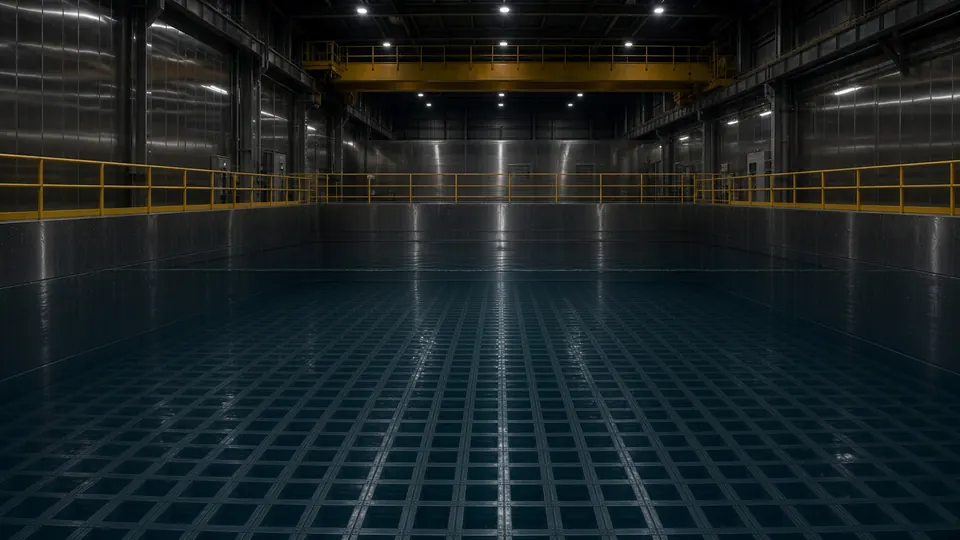
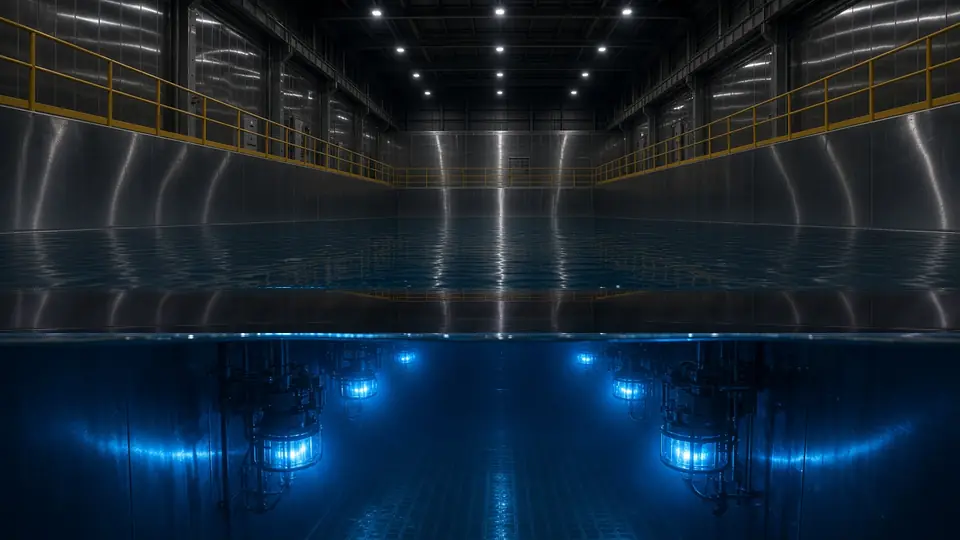
Step 12g: the pool, the arc, the puddle, and the drips
Grok <noreply@x.ai>

diff --git a/src/game/nightwatch/cameras.ts b/src/game/nightwatch/cameras.ts
@@ -334,6 +334,31 @@ function puddle(g: G, cx: number, cy: number, rFull: number, t: number, grow = 1
   g.fillRect(cx + r * 0.08, cy - 70 + ph * 70, 1, 2);
 }
 
+/** Wet grating: a flat sheen on the floor, darker in the middle, with the ceiling light in it. */
+function grateSheen(g: G, cx: number, cy: number, rFull: number, t: number, grow = 1) {
+  const r = Math.max(26, rFull * (0.45 + 0.55 * grow));
+  g.save();
+  g.translate(cx, cy);
+  g.scale(1, 0.32);
+  g.globalCompositeOperation = "multiply";
+  const dark = Math.round(148 - grow * 18);
+  g.fillStyle = rad(g, 0, 0, r, [[0, `rgb(${dark},${dark + 2},${dark + 8})`], [0.55, "rgb(206,208,210)"], [1, "rgb(255,255,255)"]]);
+  g.beginPath();
+  g.arc(0, 0, r, 0, Math.PI * 2);
+  g.fill();
+  g.restore();
+  g.save();
+  g.globalCompositeOperation = "lighter";
+  g.translate(cx - r * 0.08, cy - 1);
+  g.scale(1, 0.3);
+  const flick = 0.28 + 0.06 * Math.sin(t * 1.7) + grow * 0.22;
+  g.fillStyle = rad(g, 0, 0, r * 0.55, [[0, `rgba(255,248,224,${flick})`], [0.45, `rgba(255,244,210,${flick * 0.35})`], [1, "rgba(255,248,224,0)"]]);
+  g.beginPath();
+  g.arc(0, 0, r * 0.46, 0, Math.PI * 2);
+  g.fill();
+  g.restore();
+}
+
 /** Steam or vapour rising from (x, y), spreading and thinning. */
 function plume(g: G, x: number, y: number, t: number, scale = 1) {
   for (let k = 0; k < 14; k++) {
@@ -535,8 +560,9 @@ const S: Record<string, Scene> = {
       if (usingPlate) shaftGlint(g, W / 2, H - 28, 0.95, true, t);
       else pumpSet(g, W / 2, H - 28, 0.95, true, t);
       if (v.has("puddle")) {
-        puddle(g, W / 2, H - 16, 90, t, v.at("puddle") ?? 1);
-        plume(g, W / 2 + 10, H - 70, t, 0.8);
+        // Wet grating in front of the pump, not a mark on the bottom edge of the frame.
+        grateSheen(g, 240, 252, 72, t, v.at("puddle") ?? 1);
+        plume(g, 248, 168, t, 0.45);
       }
     },
   },
@@ -632,31 +658,45 @@ const S: Record<string, Scene> = {
       if (v.has("beacon")) beacon(g, W / 2, 70, t);
       if (v.has("condensate")) {
         const grow = v.at("condensate") ?? 0.7;
-        for (let k = 0; k < 4; k++) {
-          const x = 148 + k * 52;
-          const fall = (t * 22 + k * 19) % 70;
-          const streak = 5;
-          for (let s = 0; s < streak; s++) {
-            g.fillStyle = `rgba(186,198,206,${0.28 * (1 - s / streak)})`;
-            g.fillRect(x, 116 + fall + s, 1, 2);
+        // Threads off the steam lines. One pixel wide, long enough to see, not a painted oval.
+        const drips = [
+          [118, 78],
+          [156, 86],
+          [318, 84],
+          [356, 80],
+        ];
+        for (let k = 0; k < drips.length; k++) {
+          const [x, y0] = drips[k];
+          const fall = (t * 16 + k * 23) % 78;
+          const len = 18 + Math.round(grow * 14);
+          for (let s = 0; s < len; s++) {
+            g.fillStyle = `rgba(220,228,232,${0.62 * (1 - s / len)})`;
+            g.fillRect(x, y0 + fall + s, 1, 1);
           }
-          const pr = 10 + grow * 6;
-          const fy = H - 16;
-          g.save();
-          g.globalCompositeOperation = "multiply";
-          g.fillStyle = rad(g, x, fy, pr, [[0, "rgb(188,188,188)"], [0.7, "rgb(228,228,228)"], [1, "rgb(255,255,255)"]]);
-          g.beginPath();
-          g.ellipse(x, fy, pr, pr * 0.22, 0, 0, Math.PI * 2);
-          g.fill();
-          g.restore();
-          g.save();
-          g.globalCompositeOperation = "lighter";
-          g.fillStyle = rad(g, x - 1, fy - 1, pr * 0.4, [[0, "rgba(220,228,232,0.2)"], [1, "rgba(220,228,232,0)"]]);
-          g.beginPath();
-          g.ellipse(x - 1, fy - 1, pr * 0.32, pr * 0.1, 0, 0, Math.PI * 2);
-          g.fill();
-          g.restore();
         }
+        // The patch under the drips darkens as they land, and takes a little of the ceiling light.
+        const px = 240;
+        const py = 214;
+        const pr = 22 + grow * 14;
+        g.save();
+        g.globalCompositeOperation = "multiply";
+        g.translate(px, py);
+        g.scale(1, 0.32);
+        const dark = Math.round(168 - grow * 28);
+        g.fillStyle = rad(g, 0, 0, pr, [[0, `rgb(${dark},${dark},${dark + 6})`], [0.7, "rgb(220,220,222)"], [1, "rgb(255,255,255)"]]);
+        g.beginPath();
+        g.arc(0, 0, pr, 0, Math.PI * 2);
+        g.fill();
+        g.restore();
+        g.save();
+        g.globalCompositeOperation = "lighter";
+        g.translate(px - 3, py - 1);
+        g.scale(1, 0.28);
+        g.fillStyle = rad(g, 0, 0, pr * 0.42, [[0, `rgba(230,236,240,${0.22 + grow * 0.16})`], [1, "rgba(230,236,240,0)"]]);
+        g.beginPath();
+        g.arc(0, 0, pr * 0.4, 0, Math.PI * 2);
+        g.fill();
+        g.restore();
       }
     },
   },
@@ -890,10 +930,9 @@ const S: Record<string, Scene> = {
     },
     live(g, t, v) {
       const low = v.has("poolLow");
-      // A loaded plate keeps its own water. The drop is one wet band in the middle of the near edge.
-      // With no plate, the whole surface is drawn lower.
+      // A loaded plate keeps its own water. The low plate is the same camera with the line dropped.
       const photo = usingPlate;
-      const top = photo ? 106 : low ? 122 : 106;
+      const top = photo ? (low && stateReady("pool", "poolLow") ? 167 : 144) : low ? 122 : 106;
       if (!photo) {
         // Exposed liner where the level dropped.
         if (low) {
@@ -920,7 +959,7 @@ const S: Record<string, Scene> = {
           }
           col++;
         }
-      } else {
+      } else if (!(low && stateReady("pool", "poolLow"))) {
         const frame = poolGlowFrame(t);
         if (frame) {
           g.globalCompositeOperation = "lighter";
@@ -943,7 +982,7 @@ const S: Record<string, Scene> = {
           const age = (t * 0.3 + k / 3) % 1;
           const rxr = 16 + age * 34;
           const ryr = 5 + age * 7;
-          const y = 188 + k * 8;
+          const y = (img ? 158 : 188) + k * 6;
           g.save();
           g.beginPath();
           g.ellipse(rx, y, rxr, ryr, 0, 0, Math.PI * 2);
@@ -963,13 +1002,13 @@ const S: Record<string, Scene> = {
           g.restore();
         }
       }
-      if (v.has("toolBag") && !stateReady("pool", "toolBag")) {
+      if (v.has("toolBag") && !photo && !stateReady("pool", "toolBag")) {
         g.fillStyle = lin(g, 0, 70, 0, 96, [[0, "#7a2e1c"], [1, "#3e170e"]]);
         g.fillRect(380, 76, 44, 22);
         g.fillStyle = "#151515";
         g.fillRect(392, 70, 20, 6);
       }
-      if (low && photo) paintPoolLevel(g);
+      if (low && photo && !stateReady("pool", "poolLow")) paintPoolLevel(g);
     },
   },
   yard: {
@@ -1021,26 +1060,49 @@ const S: Record<string, Scene> = {
       g.globalCompositeOperation = "source-over";
     },
     live(g, t, v) {
-      const arcAt = v.at("arc");
-      if (arcAt !== null && arcAt >= 0.5) {
-        // Once the grid tile has crossed, the flashover stays lit between sparks.
+      if (v.has("arc")) {
+        // Middle tower, right insulator string. A glow, and a short crackle when it flashes. No box.
+        const flash = Math.abs(hash(Math.floor(t * 14), 7)) > 0.3;
+        const ix = 265;
+        const iy = 60;
+        const reach = flash ? 13 : 10;
+        const core = flash ? 0.9 : 0.7;
+        g.save();
         g.globalCompositeOperation = "lighter";
-        g.fillStyle = "rgba(190,210,255,0.45)";
-        g.fillRect(220, 36, 120, 80);
-        g.globalCompositeOperation = "source-over";
-      }
-      if (v.has("arc") && Math.abs(hash(Math.floor(t * 14), 7)) > 0.3) {
-        // hash() is signed, so a raw "> 0.6" never fired and the flashover never showed.
+        g.translate(ix, iy);
+        g.scale(0.72, 1.45);
+        g.fillStyle = rad(g, 0, 0, reach, [
+          [0, `rgba(236,244,255,${core})`],
+          [0.4, `rgba(180,210,255,${core * 0.45})`],
+          [1, "rgba(170,200,255,0)"],
+        ]);
+        g.beginPath();
+        g.arc(0, 0, reach, 0, Math.PI * 2);
+        g.fill();
+        g.restore();
+        g.save();
         g.globalCompositeOperation = "lighter";
-        g.fillStyle = rad(g, 278, 62, 90, [[0, "rgba(200,220,255,0.9)"], [0.2, "rgba(160,190,255,0.4)"], [1, "rgba(0,0,0,0)"]]);
-        g.fillRect(180, 0, 200, 160);
-        g.globalCompositeOperation = "source-over";
+        g.strokeStyle = `rgba(246,250,255,${flash ? 0.95 : 0.5})`;
+        g.lineWidth = 1;
+        g.beginPath();
+        const tick = Math.floor(t * 14);
+        const unit = (n: number, m: number) => Math.abs(hash(n, m));
+        const jx = (n: number, s: number) => ix + Math.round((unit(n, tick) - 0.5) * s);
+        const jy = (n: number, s: number) => iy + Math.round((unit(tick, n) - 0.5) * s * 1.4);
+        const span = flash ? 8 : 5;
+        g.moveTo(jx(1, span), jy(2, span));
+        g.lineTo(ix, iy);
+        g.lineTo(jx(3, span), jy(4, span));
+        g.moveTo(ix, iy + 4);
+        g.lineTo(jx(5, span), jy(6, span));
+        g.stroke();
+        g.restore();
       }
       if (v.has("fog") || v.has("arc")) {
-        const n = v.has("arc") ? 3 : 2;
+        const n = 2;
         for (let k = 0; k < n; k++) {
           const x = 140 + k * 160 + Math.sin(t * 0.4 + k) * 8;
-          const a = v.has("arc") ? 0.4 : 0.34;
+          const a = v.has("arc") ? 0.16 : 0.34;
           g.fillStyle = rad(g, x, 158, 40, [[0, `rgba(200,190,170,${a})`], [1, "rgba(0,0,0,0)"]]);
           g.beginPath();
           g.ellipse(x, 158, 34, 12, 0, 0, Math.PI * 2);
@@ -1231,10 +1293,10 @@ function cherenkovStrip(): Surface | null {
 }
 
 /** Glow cells sit in this box. One baked frame is blitted instead of a strip per cell. */
-const GLOW_X = 60;
-const GLOW_Y = 128;
-const GLOW_W = 344;
-const GLOW_H = 140;
+const GLOW_X = 70;
+const GLOW_Y = 110;
+const GLOW_W = 370;
+const GLOW_H = 120;
 const GLOW_N = 16;
 let poolGlow: Surface[] | null | undefined;
 
@@ -1258,7 +1320,6 @@ function poolGlowFrame(t: number): Surface | null {
           cg.globalCompositeOperation = "lighter";
           const tt = (f / GLOW_N) * period;
           for (let i = 0; i < cells.length; i++) {
-            if (i % 5 === 2) continue;
             const [x, y] = cells[i];
             cg.globalAlpha = 0.35 + 0.2 * Math.sin(tt * 1.1 + i);
             cg.drawImage(strip as CanvasImageSource, x - 6 - GLOW_X, y - 36 - GLOW_Y, 12, 48);

diff --git a/src/game/nightwatch/plates.ts b/src/game/nightwatch/plates.ts
@@ -58,12 +58,12 @@ export const PLATES: Record<string, PlateSpec> = {
   pool: {
     file: "/nightwatch/plates/pool.webp",
     glow: [
-      [70, 170], [150, 170], [230, 170], [310, 170], [390, 170],
-      [70, 210], [150, 210], [230, 210], [310, 210], [390, 210],
-      [70, 250], [150, 250], [230, 250], [310, 250], [390, 250],
+      [85, 204], [149, 205], [183, 172], [292, 157],
+      [311, 173], [344, 204], [394, 206], [419, 204],
     ],
     states: {
-      toolBag: { file: "/nightwatch/plates/pool-toolBag.webp", measured: [401, 87, 70, 65], box: [393, 79, 86, 81] },
+      poolLow: { file: "/nightwatch/plates/pool-poolLow.webp", measured: [0, 144, 480, 126], box: [0, 136, 480, 134] },
+      toolBag: { file: "/nightwatch/plates/pool-toolBag.webp", measured: [375, 43, 51, 28], box: [367, 35, 67, 44] },
     },
   },
   yard: { file: "/nightwatch/plates/yard.webp" },

diff --git a/docs/audit/2026-11-22-value/step-12g/visible.md b/docs/audit/2026-11-22-value/step-12g/visible.md
@@ -1,0 +1,83 @@
+# Night Watch, human check
+
+Plain and changed, side by side, at 480×270. Six moments across the life (grow 0.15 to 1, time 1.08 s to 2.95 s). The best moment is the row. Plates on.
+A pixel counts when any channel moves by 24 or more. Regions are 4-connected.
+An event passes when the best frame's largest region is at least 388.8 pixels (0.3% of the frame). More than one place is allowed.
+An oddity passes when one of the six frames has between 155.5 and 2592.0 changed pixels (0.12% to 2%).
+Frames is how many of the six clear that rule. The same scene and visual is one picture.
+
+| Site | Camera | Scene | Visual | Kind | Best grow | Changed px | Changed % | Largest px | Largest % | Frames | Rule |
+| --- | --- | --- | --- | --- | ---: | ---: | ---: | ---: | ---: | ---: | --- |
+| pwr | core | containment | puddle | event | 0.15 | 270 | 0.21 | 229 | 0.18 | 0/6 | FAIL <0.3% |
+| pwr | pzr | pressurizer | steamWisp | event | 0.15 | 1191 | 0.92 | 1190 | 0.92 | 6/6 | pass |
+| pwr | pzr | pressurizer | flicker | oddity | 0.15 | 534 | 0.41 | 534 | 0.41 | 2/6 | pass |
+| pwr | steamline | msiv | beacon | event | 0.15 | 5375 | 4.15 | 5059 | 3.90 | 4/6 | pass |
+| pwr | turbine | turbine | pumpStopped | event | 0.15 | 6852 | 5.29 | 6805 | 5.25 | 6/6 | pass |
+| pwr | aux | corridor | puddle | event | 1.00 | 747 | 0.58 | 724 | 0.56 | 2/6 | pass |
+| pwr | aux | corridor | doorAjar | event | 0.15 | 10279 | 7.93 | 9637 | 7.44 | 6/6 | pass |
+| pwr | aux | corridor | flicker | oddity | 0.15 | 567 | 0.44 | 567 | 0.44 | 2/6 | pass |
+| pwr | aux | corridor | chair | oddity | 0.15 | 2149 | 1.66 | 2149 | 1.66 | 6/6 | pass |
+| pwr | aux | corridor | hardhat | oddity | 0.15 | 1449 | 1.12 | 762 | 0.59 | 6/6 | pass |
+| pwr | pool | pool | toolBag | event | 0.15 | 658 | 0.51 | 236 | 0.18 | 0/6 | FAIL <0.3% |
+| pwr | pool | pool | poolLow | event | 0.15 | 19398 | 14.97 | 8345 | 6.44 | 6/6 | pass |
+| pwr | pool | pool | ripple | oddity | 0.15 | 331 | 0.26 | 236 | 0.18 | 2/6 | pass |
+| pwr | yard | yard | arc | event | 0.15 | 384 | 0.30 | 384 | 0.30 | 0/6 | FAIL <0.3% |
+| pwr | yard | yard | fog | oddity | 0.15 | 597 | 0.46 | 305 | 0.24 | 6/6 | pass |
+| pwr | intake | intake | debris | event | 0.15 | 6367 | 4.91 | 3766 | 2.91 | 3/6 | pass |
+| pwr | intake | intake | gull | oddity | 1.00 | 818 | 0.63 | 818 | 0.63 | 6/6 | pass |
+| bwr | core | drywell | puddle | event | 1.00 | 588 | 0.45 | 586 | 0.45 | 6/6 | pass |
+| bwr | pzr | torus | steamWisp | event | 0.32 | 2568 | 1.98 | 1362 | 1.05 | 6/6 | pass |
+| bwr | steamline | tunnel | beacon | event | 0.15 | 7462 | 5.76 | 7399 | 5.71 | 6/6 | pass |
+| bwr | steamline | tunnel | condensate | oddity | 1.00 | 159 | 0.12 | 35 | 0.03 | 1/6 | pass |
+| bwr | turbine | turbine | pumpStopped | event | 0.15 | 6852 | 5.29 | 6805 | 5.25 | 6/6 | pass |
+| bwr | aux | corridor | puddle | event | 1.00 | 747 | 0.58 | 724 | 0.56 | 2/6 | pass |
+| bwr | aux | corridor | doorAjar | event | 0.15 | 10279 | 7.93 | 9637 | 7.44 | 6/6 | pass |
+| bwr | aux | corridor | flicker | oddity | 0.15 | 567 | 0.44 | 567 | 0.44 | 2/6 | pass |
+| bwr | aux | corridor | chair | oddity | 0.15 | 2149 | 1.66 | 2149 | 1.66 | 6/6 | pass |
+| bwr | aux | corridor | hardhat | oddity | 0.15 | 1449 | 1.12 | 762 | 0.59 | 6/6 | pass |
+| bwr | pool | pool | toolBag | event | 0.15 | 658 | 0.51 | 236 | 0.18 | 0/6 | FAIL <0.3% |
+| bwr | pool | pool | poolLow | event | 0.15 | 19398 | 14.97 | 8345 | 6.44 | 6/6 | pass |
+| bwr | pool | pool | ripple | oddity | 0.15 | 331 | 0.26 | 236 | 0.18 | 2/6 | pass |
+| bwr | yard | yard | arc | event | 0.15 | 384 | 0.30 | 384 | 0.30 | 0/6 | FAIL <0.3% |
+| bwr | yard | yard | fog | oddity | 0.15 | 597 | 0.46 | 305 | 0.24 | 6/6 | pass |
+| bwr | intake | intake | debris | event | 0.15 | 6367 | 4.91 | 3766 | 2.91 | 3/6 | pass |
+| bwr | intake | intake | gull | oddity | 1.00 | 818 | 0.63 | 818 | 0.63 | 6/6 | pass |
+| pebble | core | cavity | warmGlow | oddity | 0.32 | 804 | 0.62 | 802 | 0.62 | 6/6 | pass |
+| pebble | pzr | blower | shake | event | 0.15 | 9493 | 7.32 | 8427 | 6.50 | 6/6 | pass |
+| pebble | pzr | blower | steamWisp | event | 0.15 | 1117 | 0.86 | 1114 | 0.86 | 6/6 | pass |
+| pebble | steamline | discharge | jam | event | 0.15 | 7113 | 5.49 | 7085 | 5.47 | 6/6 | pass |
+| pebble | turbine | turbine | pumpStopped | event | 0.15 | 6852 | 5.29 | 6805 | 5.25 | 6/6 | pass |
+| pebble | aux | corridor | puddle | event | 1.00 | 747 | 0.58 | 724 | 0.56 | 2/6 | pass |
+| pebble | aux | corridor | doorAjar | event | 0.15 | 10279 | 7.93 | 9637 | 7.44 | 6/6 | pass |
+| pebble | aux | corridor | flicker | oddity | 0.15 | 567 | 0.44 | 567 | 0.44 | 2/6 | pass |
+| pebble | aux | corridor | chair | oddity | 0.15 | 2149 | 1.66 | 2149 | 1.66 | 6/6 | pass |
+| pebble | aux | corridor | hardhat | oddity | 0.15 | 1449 | 1.12 | 762 | 0.59 | 6/6 | pass |
+| pebble | pool | pool | toolBag | event | 0.15 | 658 | 0.51 | 236 | 0.18 | 0/6 | FAIL <0.3% |
+| pebble | pool | pool | poolLow | event | 0.15 | 19398 | 14.97 | 8345 | 6.44 | 6/6 | pass |
+| pebble | pool | pool | ripple | oddity | 0.15 | 331 | 0.26 | 236 | 0.18 | 2/6 | pass |
+| pebble | yard | yard | arc | event | 0.15 | 384 | 0.30 | 384 | 0.30 | 0/6 | FAIL <0.3% |
+| pebble | yard | yard | fog | oddity | 0.15 | 597 | 0.46 | 305 | 0.24 | 6/6 | pass |
+| pebble | intake | intake | debris | event | 0.15 | 6367 | 4.91 | 3766 | 2.91 | 3/6 | pass |
+| pebble | intake | intake | gull | oddity | 1.00 | 818 | 0.63 | 818 | 0.63 | 6/6 | pass |
+| msr | core | cell | heaterDark | event | 0.15 | 11642 | 8.98 | 5632 | 4.35 | 6/6 | pass |
+| msr | core | cell | shadow | oddity | 0.15 | 175 | 0.14 | 119 | 0.09 | 2/6 | pass |
+| msr | pzr | freeze | frostGone | event | 0.15 | 13242 | 10.22 | 12715 | 9.81 | 6/6 | pass |
+| msr | steamline | offgas | beacon | event | 0.15 | 5773 | 4.45 | 5739 | 4.43 | 6/6 | pass |
+| msr | turbine | turbine | pumpStopped | event | 0.15 | 6852 | 5.29 | 6805 | 5.25 | 6/6 | pass |
+| msr | aux | corridor | puddle | event | 1.00 | 747 | 0.58 | 724 | 0.56 | 2/6 | pass |
+| msr | aux | corridor | doorAjar | event | 0.15 | 10279 | 7.93 | 9637 | 7.44 | 6/6 | pass |
+| msr | aux | corridor | flicker | oddity | 0.15 | 567 | 0.44 | 567 | 0.44 | 2/6 | pass |
+| msr | aux | corridor | chair | oddity | 0.15 | 2149 | 1.66 | 2149 | 1.66 | 6/6 | pass |
+| msr | aux | corridor | hardhat | oddity | 0.15 | 1449 | 1.12 | 762 | 0.59 | 6/6 | pass |
+| msr | pool | pool | toolBag | event | 0.15 | 658 | 0.51 | 236 | 0.18 | 0/6 | FAIL <0.3% |
+| msr | pool | pool | poolLow | event | 0.15 | 19398 | 14.97 | 8345 | 6.44 | 6/6 | pass |
+| msr | pool | pool | ripple | oddity | 0.15 | 331 | 0.26 | 236 | 0.18 | 2/6 | pass |
+| msr | yard | yard | arc | event | 0.15 | 384 | 0.30 | 384 | 0.30 | 0/6 | FAIL <0.3% |
+| msr | yard | yard | fog | oddity | 0.15 | 597 | 0.46 | 305 | 0.24 | 6/6 | pass |
+| msr | intake | intake | debris | event | 0.15 | 6367 | 4.91 | 3766 | 2.91 | 3/6 | pass |
+| msr | intake | intake | gull | oddity | 1.00 | 818 | 0.63 | 818 | 0.63 | 6/6 | pass |
+
+Page errors: 0.
+9 event rows fail.
+Every oddity is inside 0.12%–2% on at least one frame.
+Contact sheet: events.png. Each row is the best moment, plain on the left and changed on the right.

diff --git a/docs/audit/2026-11-22-value/step-12g/README.md b/docs/audit/2026-11-22-value/step-12g/README.md
@@ -1,0 +1,13 @@
+# Step 12g
+
+The pool and the low-water plate are the same camera. The low plate drops the waterline and leaves a wet band of liner. The blue cells stay in the water. That event passes. The largest region is 6.44% of the frame.
+
+The switchyard glow sits on the middle tower's right insulator. It is blue-white, with a short crackle. The fog is still there, and quieter. The best of the six frames is 384 pixels. The line is 389. It does not clear four of the six. It was not made bigger. arc.png is plain on top and the glow underneath.
+
+The containment leak is a wet sheen on the grating in front of the pump, with the ceiling light in it, and a little vapour. The check's largest region is 229 pixels, under 0.3%. It was not painted larger. See puddle.png.
+
+The tunnel drips are longer, and the floor under them takes a wet patch. One frame is inside the band: 159 pixels, 0.12%. See drip.png.
+
+The tool bag on this pool camera sits on the far rail. Its largest region is 236 pixels, under 0.3%. It was not scaled up. See bag.png.
+
+The pool pictures are generated. The Steam AI label still applies.

diff --git a/docs/audit/2026-11-22-value/PROGRESS.md b/docs/audit/2026-11-22-value/PROGRESS.md
@@ -26,4 +26,5 @@ Brief: `docs/grok/value-100.md`. One step, one commit. Real-input proof in this 
 - Step 12e done · Frame rate is a global setting, on the main menu and on pause. New week does not clear it. Proof in step-12e/.
 - Step 13 done · The menu loads without the night plates, the outage data, or the minigames. 0.39 MB transferred before the menu. Proof in step-13/.
 - Step 12f done · An event passes on its best of six frames if the largest connected change is at least 0.3%. More than one place is allowed. Condensate is still too faint. Proof in step-12f/.
+- Step 12g done · The pool waterline drops on a new plate, with a wet band and the cells kept. The drips land in the band. The insulator glow is 384 pixels (the line is 389) and the grating sheen is 229. Neither was enlarged. The far-rail tool bag is 236. Proof in step-12g/.
 
